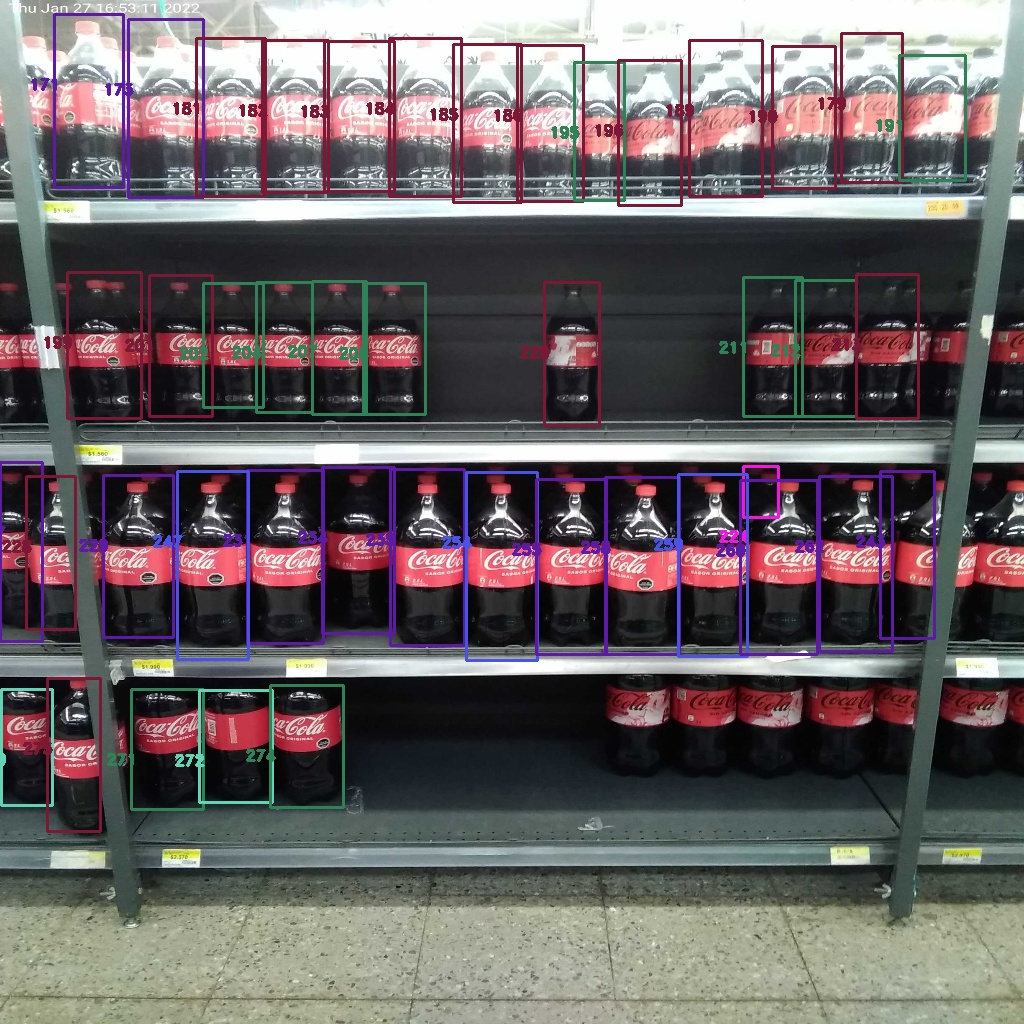
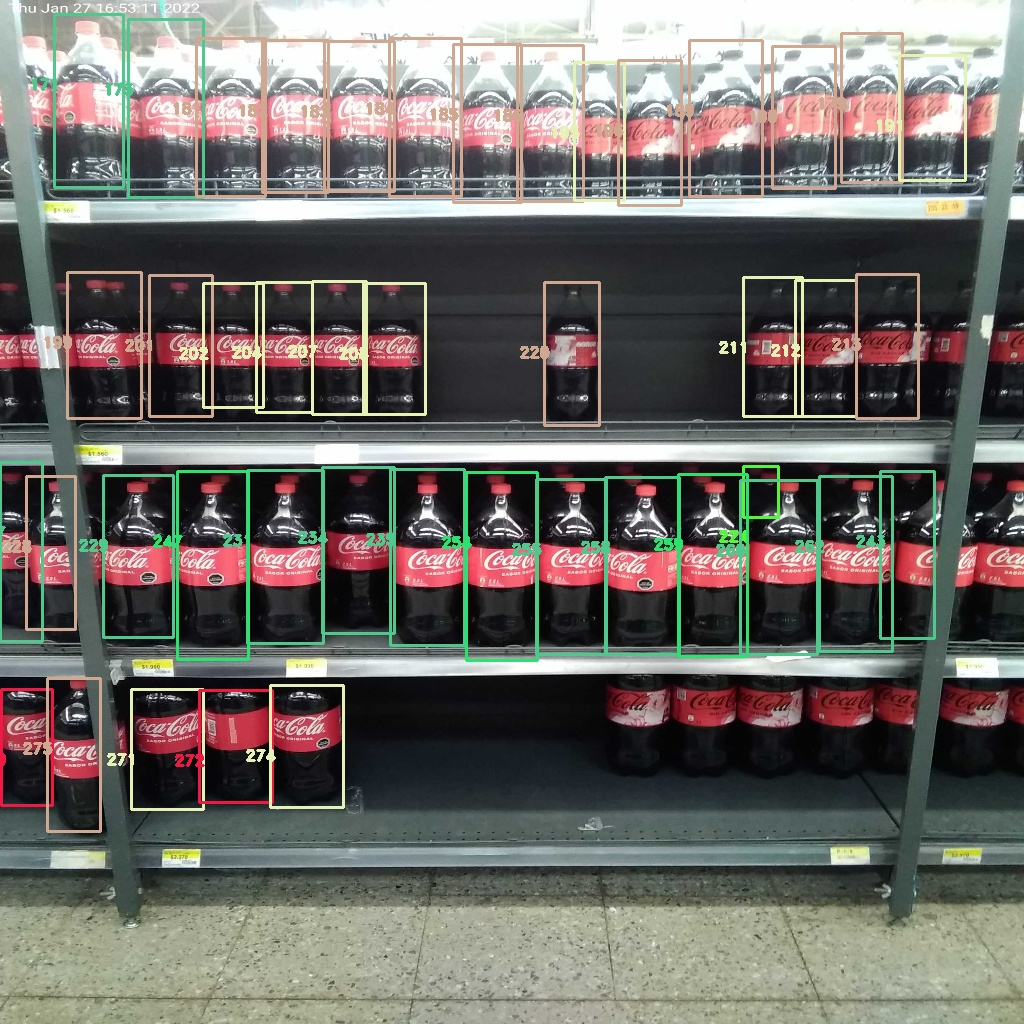
updting code

diff --git a/python/DEMO_WINUX_PALETA_20220517.py b/python/DEMO_WINUX_PALETA_20220517.py
@@ -1,0 +1,398 @@
+# quiero librerias infinitas amigo
+# https://stackoverflow.com/questions/54632009/how-to-increase-the-maximum-size-of-the-aws-lambda-deployment-package-requesten
+# https://thinkinfi.com/yolo-object-detection-using-python-opencv/
+# https://pjreddie.com/darknet/yolo/
+# https://pjreddie.com/darknet/install/
+# <a href="https://thinkinfi.com/basic-python-opencv-tutorial-function/" data-internallinksmanager029f6b8e52c="14" title="OpenCV" target="_blank" rel="noopener">opencv</a> object tracking
+# object detection and tracking <a href="https://thinkinfi.com/basic-python-opencv-tutorial-function/" data-internallinksmanager029f6b8e52c="14" title="OpenCV" target="_blank" rel="noopener">opencv</a>
+# https://docs.opencv.org/3.4/db/d30/classcv_1_1dnn_1_1Net.html
+
+from sklearn.cluster import KMeans
+import sys
+import cv2
+import numpy as np
+import json
+import boto3
+import os
+
+def testYolo(src_, types_):
+    # Loading image
+
+
+    img = None
+
+    #img_ORIGINAL = None
+
+    if os.name != 'nt':
+        session = boto3.Session(profile_name='default')
+        dev_client = session.client('s3')
+        dev_resource = boto3.resource('s3')
+        bucket_name = "cadem-vision-artificial-photos"
+
+        print(f"vamos a abrir: vision_artificial/{src_}, en el bucket:{bucket_name}")
+        file_obj = dev_client.get_object(
+            Bucket=bucket_name, Key=f'vision_artificial/{src_}')
+        # reading the file content in bytes
+        file_content = file_obj["Body"].read()
+
+        # creating 1D array from bytes data range between[0,255]
+        np_array = np.frombuffer(file_content, np.uint8)
+
+        # decoding array
+        img = cv2.imdecode(np_array, cv2.IMREAD_COLOR)
+        img_ORIGINAL = cv2.imdecode(np_array, cv2.IMREAD_COLOR)
+    else:
+        path_ = "C:/RSILVA_REPOS/TEST_CLASIFICATOR/python/"
+        img = None
+        img = cv2.imread(f'{path_}{src_}')
+        #print(f"tamos en windors compare:{src_}")
+
+    salida = {}
+
+    #img = cv2.imread(f'{path_}{src_}')
+
+    # Load Yolo
+    yolo_weight = "C:/RSILVA_REPOS/yolov3.weights"
+    yolo_config = "yolov3.cfg"
+    coco_labels = "coco.names"
+    net = cv2.dnn.readNet(yolo_weight, yolo_config)
+
+    classes = []
+    with open(coco_labels, "r") as f:
+        classes = [line.strip() for line in f.readlines()]
+
+    # print(classes)
+
+    # # Defining desired shape
+    fWidth = 1024
+    fHeight = 1024
+    #fWidth = 2048
+    #fHeight = 2048
+    #fWidth = 4096
+    #fHeight = 4096
+    out_flag = f"{fWidth}{fHeight}"
+
+    # Resize image in opencv
+    img = cv2.resize(img, (fWidth, fHeight))
+
+    img_ORIGINAL_TO_1024 = cv2.resize(img, (fWidth, fHeight))
+    # SOLO EN DEV
+    # cv2.imwrite(f'{path_}_ORIG_BANDEJERO_1024_{src_}',img)
+
+    height, width, channels = img.shape
+
+    # Convert image to Blob
+    blob = cv2.dnn.blobFromImage(
+        img, 1/255, (fWidth, fHeight), (0, 0, 0), True, crop=False)
+    # Set input for YOLO object detection
+    net.setInput(blob)
+
+    # Find names of all layers
+    layer_names = net.getLayerNames()
+    #print(layer_names)
+    # Find names of three output layers
+    # ORIGINAL_ERROR _     output_layers = [layer_names[i[0] - 1] for i in net.getUnconnectedOutLayers()]
+
+    colors_TYPE = np.random.uniform(0, 255, size=(50, 3))
+
+    pos_ = 0
+    for i in net.getUnconnectedOutLayers():
+        #print(f"pos:{pos_}:getUnconnectedOutLayers:{i}")
+        pos_ = pos_+1
+    pos_ = 0
+    for i in net.getLayerNames():
+        #print(f"pos:{pos_}:getLayerNames:{i}")
+        pos_ = pos_+1
+    output_layers = []
+
+    if os.name != 'nt':
+        print("tamos en linus compare")
+        output_layers = [layer_names[i[0] - 1] for i in net.getUnconnectedOutLayers()]
+    else:
+        print("tamos en windors compare")
+        output_layers = [layer_names[i - 1] for i in net.getUnconnectedOutLayers()] 
+
+
+    #print(output_layers)
+      # FALLA EN WINDOWS
+    # 
+    #print(output_layers)
+
+    # Send blob data to forward pass
+    outs = net.forward(output_layers)
+    #print(outs[0].shape)
+    #print(outs[1].shape)
+    #print(outs[2].shape)
+
+    # Generating random color for all 80 classes
+    colors = np.random.uniform(0, 255, size=(len(classes), 3))
+
+    # Extract information on the screen
+    class_ids = []
+    confidences = []
+    boxes = []
+    for out in outs:
+        for detection in out:
+            # Extract score value
+            scores = detection[5:]
+            # Object id
+            class_id = np.argmax(scores)
+            # Confidence score for each object ID
+            confidence = scores[class_id]
+            # if confidence > 0.5 and class_id == 0:
+            if confidence > 0.5:
+                # Extract values to draw bounding box
+                center_x = int(detection[0] * width)
+                center_y = int(detection[1] * height)
+                w = int(detection[2] * width)
+                h = int(detection[3] * height)
+                # Rectangle coordinates
+                x = int(center_x - w / 2)
+                y = int(center_y - h / 2)
+                boxes.append([x, y, w, h])
+                confidences.append(float(confidence))
+                class_ids.append(class_id)
+
+    indexes = cv2.dnn.NMSBoxes(boxes, confidences, 0.5, 0.4)
+
+    # fixed by renest
+    colors = np.random.uniform(0, 255, size=(len(boxes), 3))  # fixed
+
+    lista = []
+
+    listaAlturasMedias = {}
+
+    # Draw bounding box with text for each object
+    font = cv2.FONT_HERSHEY_DUPLEX
+    for i in range(len(boxes)):
+        if i in indexes:
+            x, y, w, h = boxes[i]
+
+
+            #si tiene una guatones muy grande
+            if w>100:
+                continue
+
+            label = str(classes[class_ids[i]])
+            confidence_label = int(confidences[i] * 100)
+            #color = colors[i]
+            color_ = colors[i]
+            #print("color_caja:" + str(color_))
+            elemento = {}
+            elemento["tipo"] = label
+
+            if not label in types_:
+                continue
+
+            elemento["id_interno"] = str(i)
+            elemento["x1"] = x
+            elemento["x2"] = x + w
+            elemento["y1"] = y
+            elemento["y2"] = y + h
+            elemento["w"] = w
+            elemento["h"] = h
+            elemento["marca"] = "EN_DESARROLLO"
+
+            #altura_mitad = int(h/2)
+            half_altura = int(h/20)
+
+            clase_H = "H"+str(half_altura)
+            elemento["clase_H"] = clase_H
+
+            #elemento["clase_CURVA"] = "CV_1_CV1" #detector de tapas
+            elemento["clase_GRUPO_PALETA_2"] = "P_000000" + "invoquepaleta" #2
+            elemento["clase_GRUPO_PALETA_3"] = "P_000000" + "invoquepaleta"#3
+            elemento["clase_GRUPO_PALETA_4"] = "P_000000" + "invoquepaleta" #4
+            elemento["clase_VOLUMEN"] = "V_" + str( (h*w)/20 )
+            elemento["altura_media"] = half_altura
+            elemento["EAN"] = "NULL"
+
+            #lista["elemento_"+ str(i)] = elemento
+            lista.append(elemento)
+
+            colors_TYPE_ = colors_TYPE[half_altura]
+
+            cv2.rectangle(img, (x, y), (x + w, y + h), colors_TYPE_, 2)
+#            cv2.putText(img, f'{ "H"+str(half_altura)}',(x-25, y + 75), font, 0.5, colors_TYPE_, 2)
+            cv2.putText(img, str(i) ,(x-25, y + 75), font, 0.5, colors_TYPE_, 2)
+
+            # C:\RSILVA_BOT_BASICS\ETL_CADEM\VISION_ARTIFICIAL\DEMO_OBJETOS\PALETA_FILES_5_CLUSTER
+            img_sub = img_ORIGINAL_TO_1024[y:y+h, x:x+w]
+
+            img_sub_path = "C:/RSILVA_BOT_BASICS/ETL_CADEM/VISION_ARTIFICIAL/DEMO_OBJETOS/SUB_IMAGENES"
+            img_sub_path_paleta = "C:/RSILVA_BOT_BASICS/ETL_CADEM/VISION_ARTIFICIAL/DEMO_OBJETOS/CLUSTERIZAR_PALETA"
+
+            if os.name != 'nt':
+                print("tamos en linus compare")
+                img_sub_path = "/home/admin/SUB_IMAGENES"
+
+            out_folder_ = src_.replace('.jpg','')           #img_sub_path = "/home/repos/SUB_IMAGENES/"
+            img_sub_path = img_sub_path + "/" +     out_folder_ + "/"        #img_sub_path = "/home/repos/SUB_IMAGENES/"
+
+            try:
+                os.makedirs( img_sub_path)
+            except Exception as ex:
+                #print(f"folder ya existe:{img_sub_path}")
+                a=0
+
+
+
+            img_sub_name = src_ + "_" + elemento["id_interno"] + "_.jpg"
+
+
+            img_sub_name = str(i) + ".jpg"
+
+
+            try:
+                #print(f"ABORTADO:SUB-IMAGEN:  cv2.imwrite")
+                cv2.imwrite(img_sub_path + img_sub_name, img_sub)
+                salida_PALETA = __paleta__(img_sub_path, img_sub_name)
+                print(f"esta es la salida de Paleta:{salida_PALETA['OUT']}")
+                print(f"esta es la salida de COLORES:{salida_PALETA['OUT']}")
+                print(f"esta es la salida de COLORES:{salida_PALETA['OUT']}")
+                lista["palquelee"] = "palquelee"
+
+                lista["COLOR1"] = "COLOR1"
+                lista["COLOR2"] = "COLOR2"
+                lista["COLOR3"] = "COLOR3"
+
+
+
+
+            except Exception as ex:
+                print(f"Exception in imwrite -  : {ex}")
+
+
+
+    if os.name != 'nt':
+        print("tamos en linus compare")
+        # ESCRIBE LA SALIDA JPG EN EL BUCKET
+        image_string = cv2.imencode('.jpg', img)[1].tostring()
+        dev_client.put_object(
+            Bucket=bucket_name, Key=f"vision_artificial/OUT_{src_}", Body=image_string)
+
+        # ESCRIBE LA SALIDA JSON EN EL BUCKET
+        bucket_name = "cadem-vision-artificial-photos"
+        nameFile = "entrada.jpg"
+        nameJsonFile = "OUT_" + src_ + ".json"
+        s3object = dev_resource.Object(
+            bucket_name, f"vision_artificial/{nameJsonFile}")
+
+        salida = s3object.put(
+            Body=(bytes(json.dumps(lista).encode('UTF-8')))
+        )
+        print("vamos a escribir un JSON en S3")
+        print(f"salida:{salida}")
+        print("TERMINO SH")
+
+    else:
+
+        print("VAMOS A ESCRIBIR EL JSON EL LOCAL")
+
+        ruta_OUT = f'{path_}_OUT_BANDEJERO_1024_{src_}'
+        print("ruta_OUT:{ruta_OUT}")
+        cv2.imwrite(ruta_OUT,img)
+
+        #print(lista)
+        print(lista)
+        with open("OUT_" + src_ + ".json", "w") as outfile:
+            json.dump(lista, outfile, indent = 4)
+
+    salida["lista"] = lista
+    return salida
+
+def _RSILVA_20220330_visualize_Dominant_colors__(path_,file_,cluster, C_centroids):
+    print(f"_RSILVA_20220330_visualize_Dominant_colors__:path_:{path_}:file_{file_}:cluster:{cluster}")
+    salida = {}
+
+    C_labels = np.arange(0, len(np.unique(cluster.labels_)) + 1)
+    (C_hist, _) = np.histogram(cluster.labels_, bins=C_labels)
+    C_hist = C_hist.astype("float")
+    C_hist /= C_hist.sum()
+
+    rect_color = np.zeros((50, 300, 3), dtype=np.uint8)
+    img_colors = sorted([(percent, color)
+                        for (percent, color) in zip(C_hist, C_centroids)])
+    start = 0
+
+    string_COLOR = ""
+    string_COLOR_PCT = ""
+    pos = 0
+    for (percent, color) in img_colors:
+        color[0] = int(color[0])
+        color[1] = int(color[1])
+        color[2] = int(color[2])
+
+        string_COLOR_tmp = str(int(color[0])) + "_" + str(int(color[1])) + "_" + str(int(color[2]))
+        string_COLOR = string_COLOR + "_" + string_COLOR_tmp
+
+        string_COLOR_PCT_tmp = str( int(percent*100) ) + "_" + string_COLOR_tmp
+        string_COLOR_PCT = string_COLOR_PCT + "_pct_" + string_COLOR_PCT_tmp
+
+        salida["C" + str(pos) + "R"] = color[0]
+        salida["C" + str(pos) + "G"] = color[1]
+        salida["C" + str(pos) + "B"] = color[2]
+
+        if(pos==3):
+            print(f"pos:{pos}, ya compa saulcito:" +string_COLOR_PCT )
+
+        #print(color, "{:0f}%".format(percent * 100))
+        #print(color, "{:0f}%".format(percent * 100))
+
+        end = start + (percent * 300)
+        cv2.rectangle(rect_color, (int(start), 0), (int(end), 50),
+                      color.astype("uint8").tolist(), -1)
+        start = end
+        pos = pos + 1
+
+    salida["rect_color"] = rect_color
+    salida["string_COLOR"] = string_COLOR
+    salida["string_COLOR_PCT"] = string_COLOR_PCT
+
+    return salida
+
+def __paleta__(path_, file_):
+    print(f"__paleta__:{file_}")
+    __clusters__ = 3
+    out = {}
+    # Load image
+    path_file_ = f"{path_}{file_}"
+    src_image = cv2.imread(path_file_)
+
+    src_image = cv2.cvtColor(src_image, cv2.COLOR_BGR2RGB)
+    reshape_img = src_image.reshape(
+        (src_image.shape[0] * src_image.shape[1], 3))
+
+    # Display dominant colors Present in the image
+    KM_cluster = KMeans(n_clusters=__clusters__).fit(reshape_img)
+    visualize_color_salida = _RSILVA_20220330_visualize_Dominant_colors__(path_,file_,KM_cluster, KM_cluster.cluster_centers_)
+
+    visualize_color_img = visualize_color_salida["rect_color"]
+    visualize_color_img = cv2.cvtColor(visualize_color_img, cv2.COLOR_RGB2BGR)
+    string_COLOR = visualize_color_salida["string_COLOR"]
+
+    string_COLOR_PCT = visualize_color_salida["string_COLOR_PCT"]
+
+
+    out["COLOR1"] = "palquelee"
+    out["COLOR2"] = "palquelee"
+    out["COLOR3"] = "palquelee"
+
+    #print(f"string_COLOR_PCT:{string_COLOR_PCT}")
+    ruta_OUT = f'{path_}{file_}_PALETA_.jpg'
+    print(f"ABORTADO:imwrite:visualize_color_img:ruta:{ruta_OUT}:string_COLOR{string_COLOR}")
+    cv2.imwrite(ruta_OUT, visualize_color_img)
+    out["OUT"] = "test" 
+    return out
+
+#testYolo("22032022115408_FOTO_SALA_BUENA.jpg", types_=['bottle'])  #sprite
+testYolo("_ELEGIDA_27012022165311_FOTO_SALA_BUENA.jpg", types_=['bottle']) # coca cola
+
+
+"""
+
+    if os.name != 'nt':
+        print("tamos en linus compare")
+    else:
+        print("tamos en windors compare")
+"""
